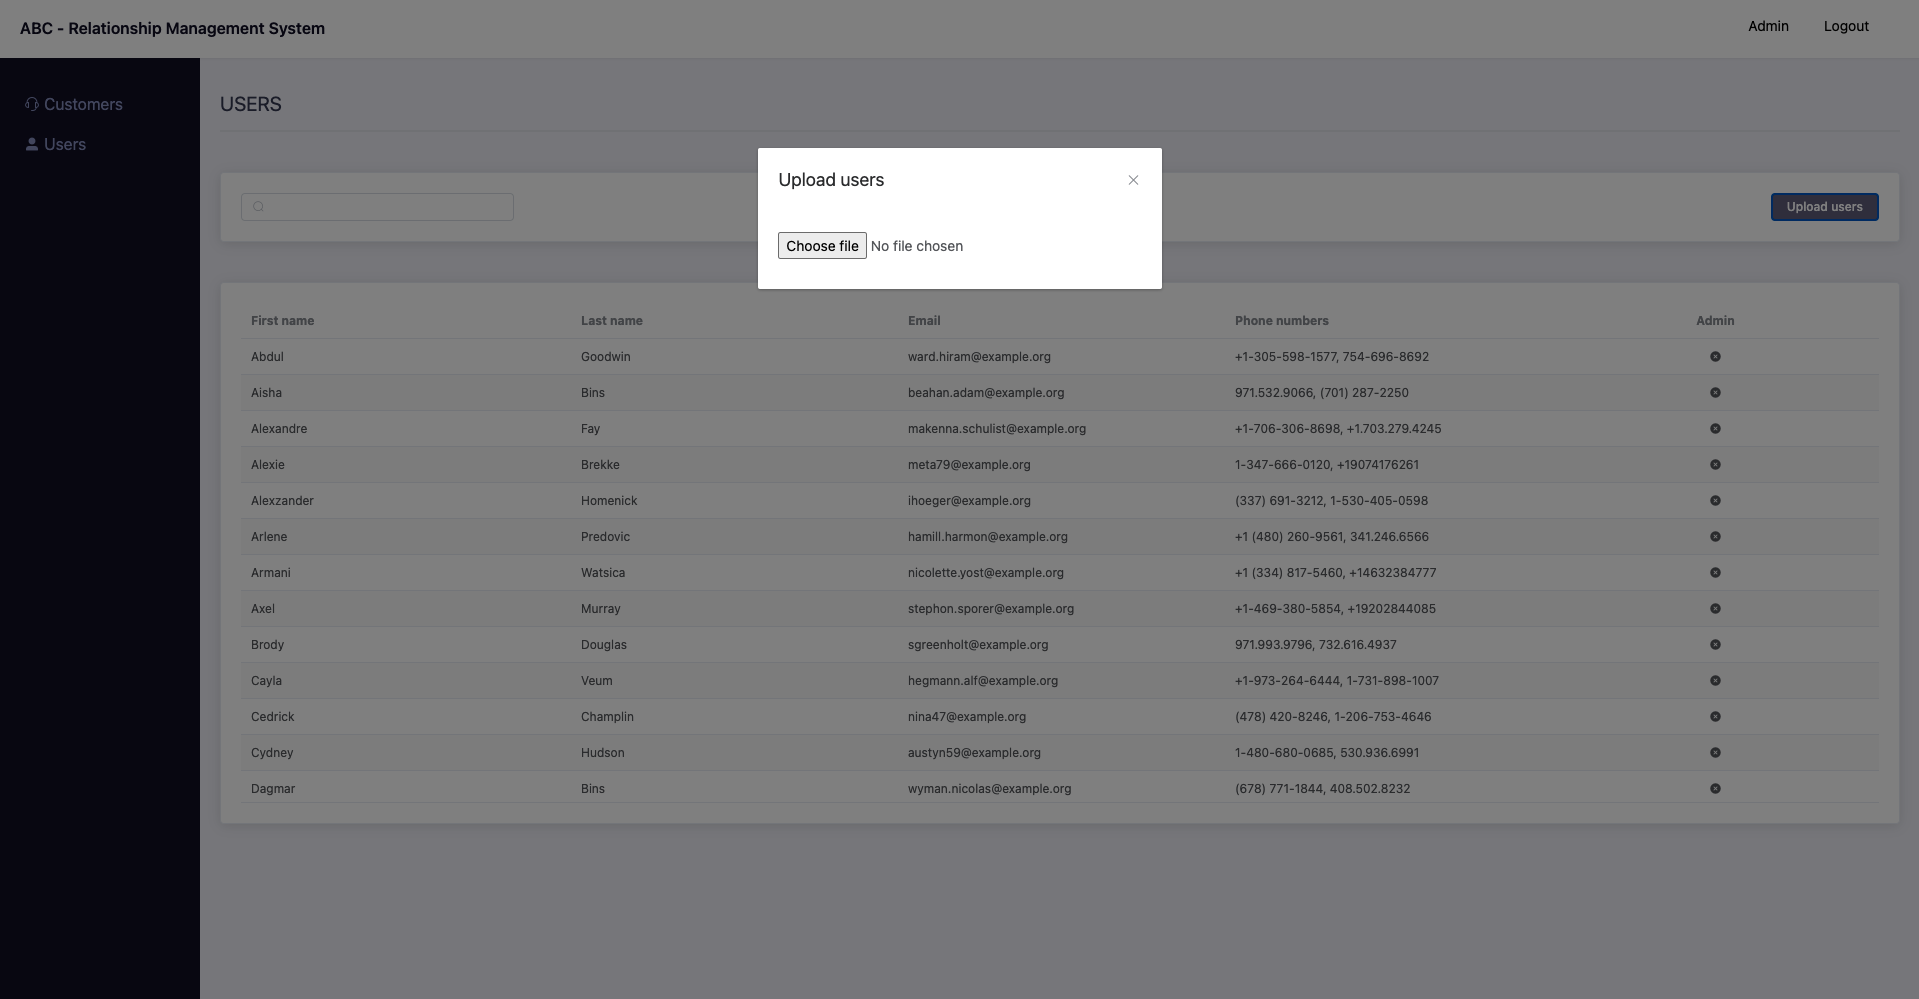
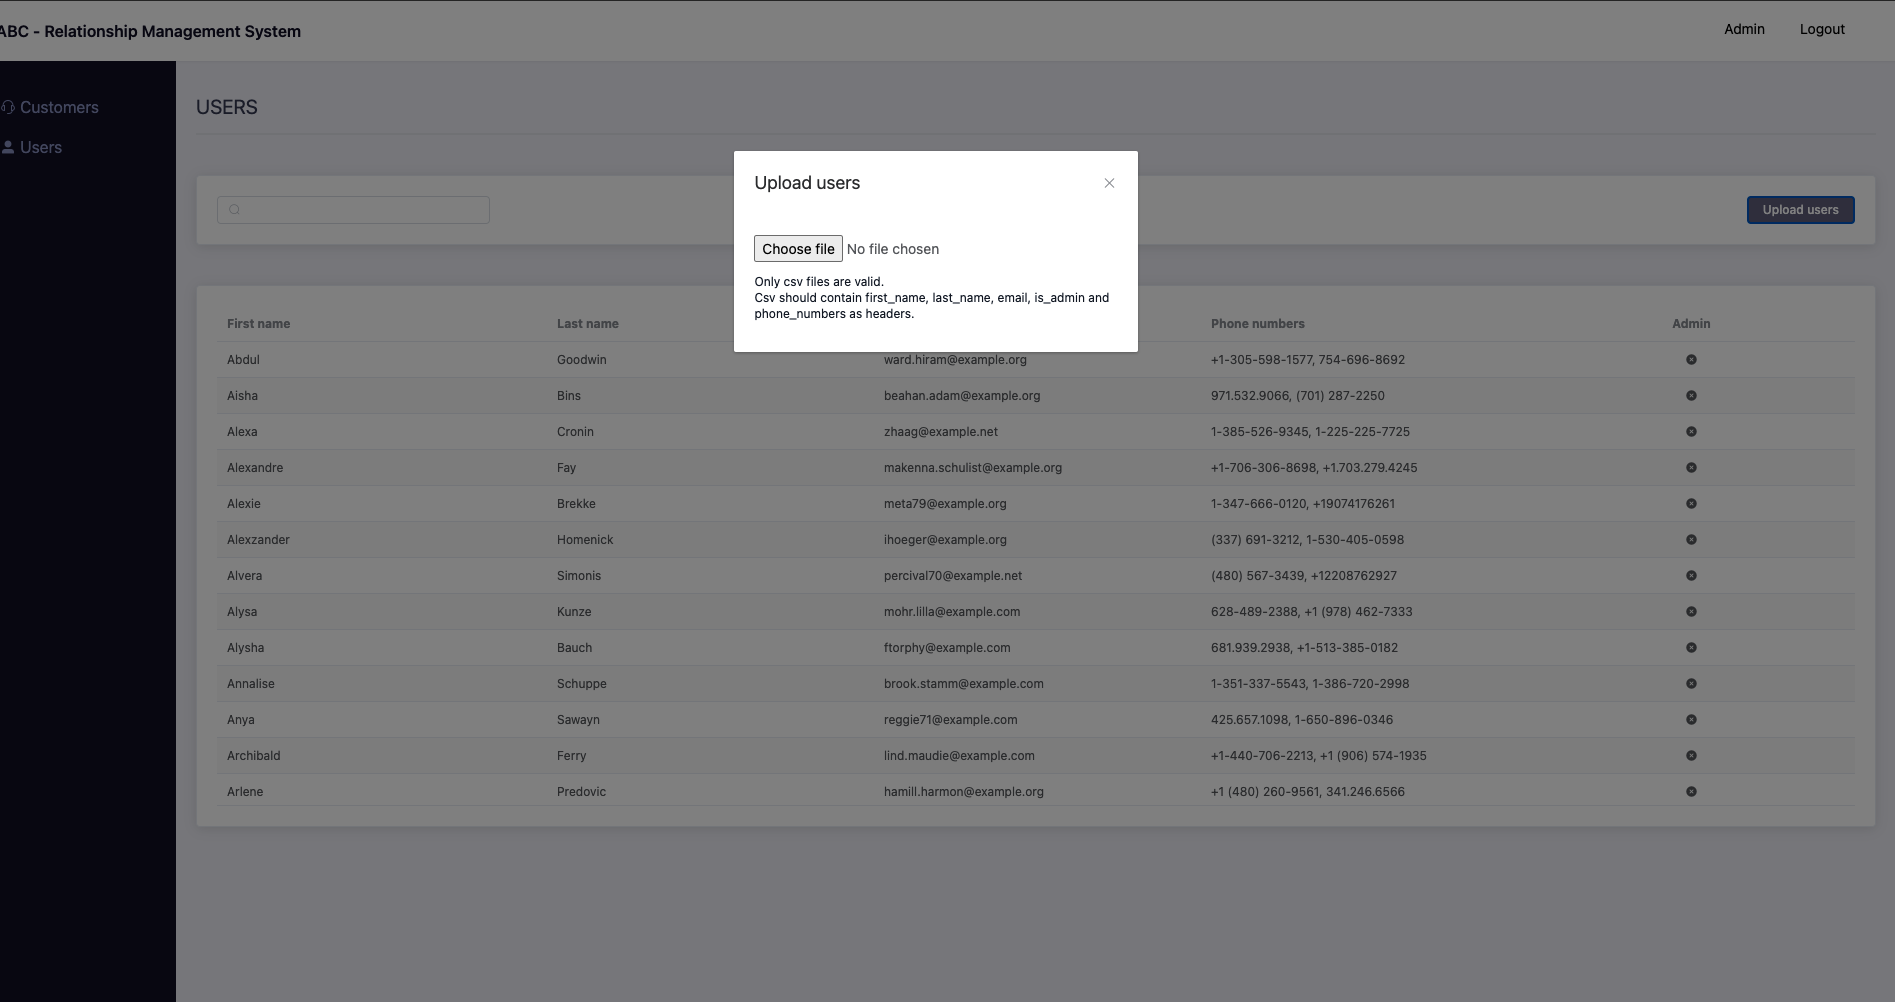
updated

diff --git a/public/js/resources_js_components_User_UserCsvUpload_vue.js b/public/js/resources_js_components_User_UserCsvUpload_vue.js
@@ -189,9 +189,11 @@ var render = function() {
         on: { change: _vm.uploadFile }
       }),
       _vm._v(" "),
-      _c("span", { staticClass: "text-sm text-gray-900" }, [
+      _c("span", { staticClass: "pt-3 block text-xs text-gray-900" }, [
+        _vm._v("\n        Only csv files are valid. "),
+        _c("br"),
         _vm._v(
-          "\n        Only csv files are valid. Csv should contain first_name, last_name, email, is_admin and phone_numbers as headers.\n    "
+          "\n        Csv should contain first_name, last_name, email, is_admin and phone_numbers as headers.\n    "
         )
       ])
     ]

diff --git a/resources/js/components/User/UserCsvUpload.vue b/resources/js/components/User/UserCsvUpload.vue
@@ -39,8 +39,9 @@ export default {
         @close="$emit('close-user-upload')">
         <input type="file" ref="csv_file" name="file" @change="uploadFile"/>
 
-        <span class="text-sm text-gray-900">
-            Only csv files are valid. Csv should contain first_name, last_name, email, is_admin and phone_numbers as headers.
+        <span class="pt-3 block text-xs text-gray-900">
+            Only csv files are valid. <br/>
+            Csv should contain first_name, last_name, email, is_admin and phone_numbers as headers.
         </span>
     </el-dialog>
 </template>

diff --git a/README.md b/README.md
@@ -113,7 +113,7 @@ http://127.0.0.1:8000/api/documentation
   
 #### Users Index
 ![Users Page](public/readme_images/users.png)
-![Upload users](public/readme_images/users_upload.png)
+![Users Upload](public/readme_images/users_upload.png)
 
 - to update or create users, run the following command.
 - by default email will be considered row identifier when updating users via csv  
